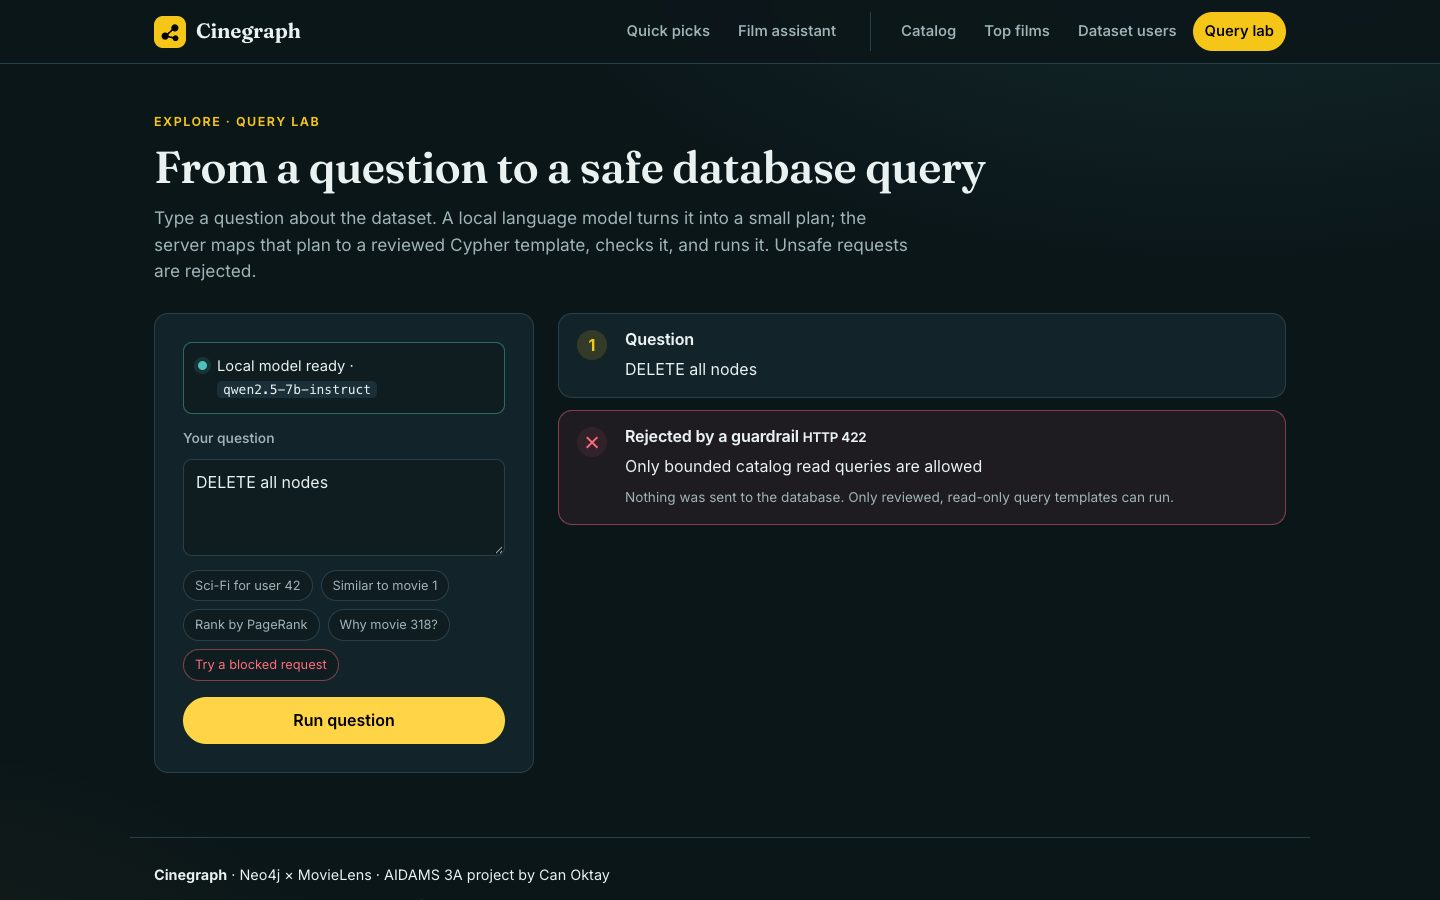
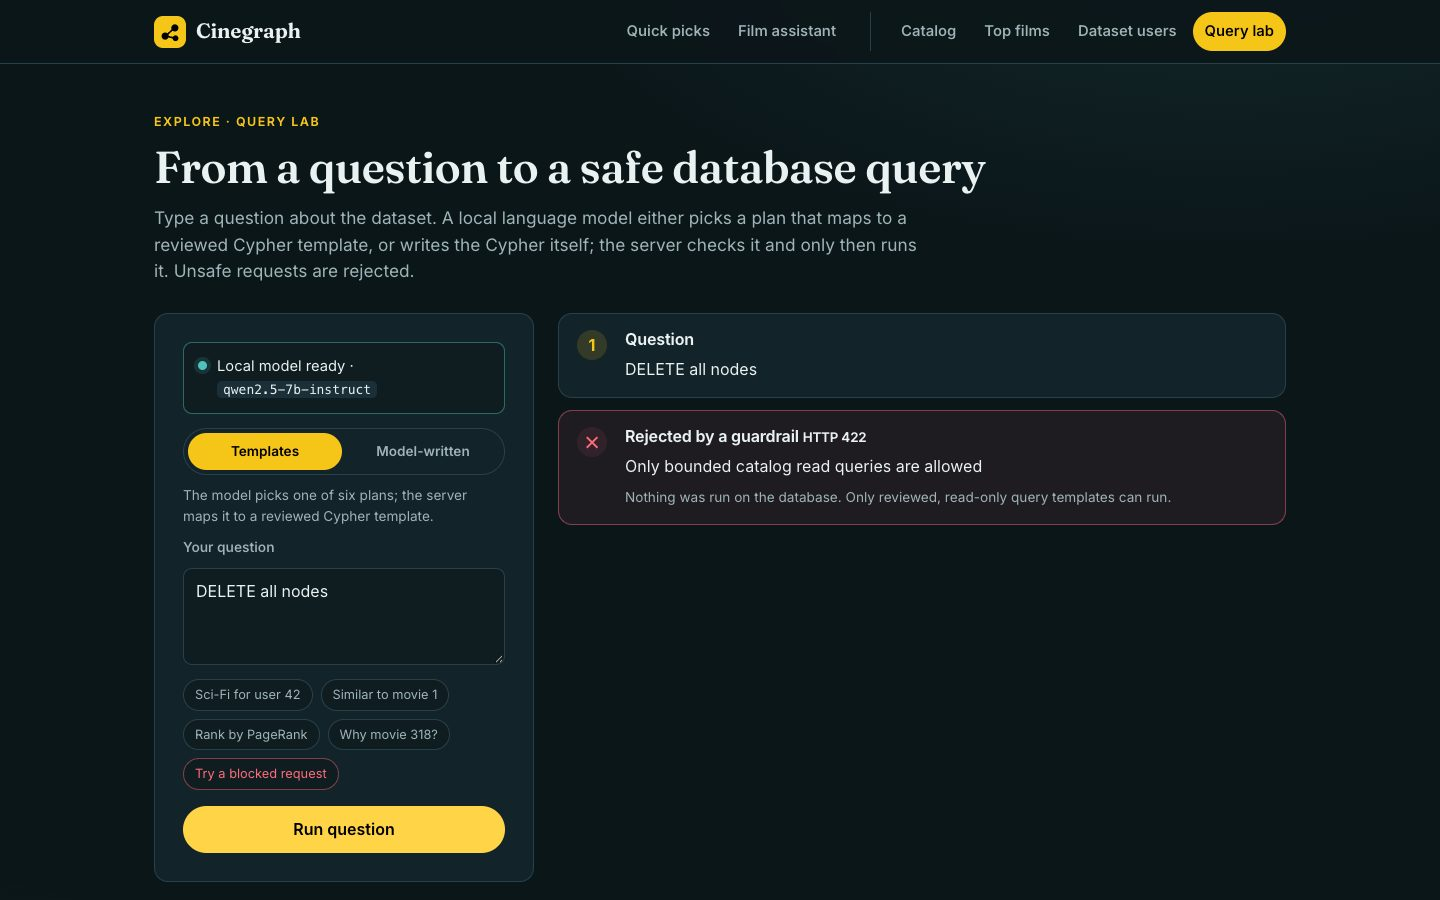
docs: anti-genericity appendix in the README and an updated rubric map
Add the comparison with a generic AI-generated schema and the rejected
modelling alternatives to the README, describe both query-lab modes and
pathfinding, refresh screenshots and numbers, and rewrite the
requirement-to-evidence map.

Changed region(s): [[0.0938, 0.4667, 0.4062, 0.9956], [0.0938, 0.2178, 0.625, 0.3111], [0.5, 0.5289, 0.8125, 0.56]]

diff --git a/docs/requirements.md b/docs/requirements.md
@@ -1,33 +1,52 @@
 # Requirement-to-evidence map
 
-Source: [instructor specification](https://gist.github.com/bdallard/2ada69b40c3abfe3a7b3f6ed402b4b51). This maps evidence, not a self-awarded grade.
+Source: [instructor specification](https://gist.github.com/bdallard/2ada69b40c3abfe3a7b3f6ed402b4b51). Each row points to where the criterion is met; it is evidence, not a self-awarded grade.
 
-| Rubric section | Points | Implemented evidence |
+| Rubric item | Points | Evidence |
 |---|---:|---|
-| Docker services | 9 | Three-service Compose, non-root API Dockerfile, env setup, healthchecks, image workflow. **Public** visibility remains intentionally unmet while image is private. |
-| Neo4j | 10 | Five source labels/types plus operational analytics, seven uniqueness constraints, full-text/year indexes, real idempotent ETL and documented data. |
-| FastAPI | 6 | Four principal use cases, search/explanation/ask/health, Pydantic, OpenAPI and tested error responses. |
-| Advanced Cypher | 9 | Similarity traversal, weighted recommendations, community membership, WITH/UNWIND/subqueries/aggregation, graph algorithms in similar/discover/PageRank endpoints. |
-| Optimization | 5 | Bounded inputs, parameters, pagination, precompute, PROFILE plans and 30-query benchmark including quality overlap. |
-| GDS + agentic | 13 | Real projection + Node Similarity/Louvain/PageRank; frozen supervised interaction classification; local model planning and compiled Cypher; guardrail and evidence evaluation. |
-| Schemas/modeling | 7 | SVG + editable draw.io graph/architecture diagrams; ADRs; unedited baseline comparison. |
-| Documentation | 5 | README, real screenshots, executed notebook, runbook and guide. |
-| Clean code | 4 | Instructor .pylintrc, ≥9.5 lint gate, Black/PEP8 and docstrings. |
-| Makefile | 3 | Documented functional commands and help. |
-| Tests | 10 | Unit/API/real DB/Cypher/GDS, container HTTP smoke, ≥60% enforced coverage and reports. |
-| Engineering | 9 | Lint/test/build workflows, badges, PR observations, Nginx/auth, index plans. **Independent** human review is not claimed. |
-| Git/collaboration | 10 | Stable main, actual feature branches and substantial PR. One real contributor; group balancing/solo rules require instructor clarification. |
+| docker-compose.yml with ≥3 services | 2 | `neo4j`, `api`, `nginx` in [`docker-compose.yml`](../docker-compose.yml), all with health checks |
+| Proper Dockerfile / official image | 2 | Non-root, pinned [`Dockerfile`](../Dockerfile); pinned official Neo4j and Nginx images |
+| `.env.example`, no secrets committed | 2 | [`.env.example`](../.env.example); `make setup` writes an untracked `.env`; history scanned: no secret ever committed |
+| ≥1 image on a public registry | 2 | [`ghcr.io/canoktayy/cinegraph`](https://github.com/canoktayy/cinegraph/pkgs/container/cinegraph), published by the [Container workflow](../.github/workflows/image.yml) |
+| Docker Compose starts cleanly | 1 | `make docker-run` waits until all three services are healthy; CI does the same |
+| ≥3 labels, ≥3 relationship types | 3 | 7 labels, 7 relationship types: [graph model](../README.md#graph-model) |
+| ≥2 constraints | 2 | 7 uniqueness constraints in `scripts/data.py` (`create_schema`) |
+| Appropriate indexes | 2 | Full-text title index and year range index; [PROFILE of an index seek](evidence/profile-index.json) |
+| Dataset ingestion script | 2 | `make download seed`: validated, idempotent batch import (`scripts/data.py`) |
+| Dataset source documented | 1 | [Data sources](../README.md#data-sources-and-attribution), checksums in `artifacts/reports/data_quality.json` |
+| ≥4 endpoints, ≥3 advanced graph queries | 2 | 18 endpoints; similar, recommendations, discovery, trending/PageRank, explanation paths, shortest path |
+| Pydantic validation | 2 | `app/models.py`, `app/taste.py`, `app/agent/*` (strict types, bounds, `extra="forbid"`) |
+| Swagger `/docs` works | 1 | http://localhost:18080/docs; checked by `tests/integration/test_containers.py` |
+| Proper error handling | 1 | 404/422/429/502/503/504 with messages; database errors hide internals (`app/main.py`) |
+| Pathfinding/GDS in ≥2 endpoints | 4 | `shortestPath` in `/api/movies/{a}/path/{b}`; GDS Node Similarity in `/similar` and `/recommendations`; Louvain in `/discover`; PageRank in `/trending` |
+| Complex pattern matching | 3 | Multi-hop rating → similarity paths, `EXISTS` subqueries, event-node tag traversal (`app/queries.py`) |
+| WITH, UNWIND, subqueries, aggregations | 2 | `TASTE_RANKING` (UNWIND), `RECOMMEND` (WITH, aggregation), `DIRECT_SIMILAR` (CALL subqueries) |
+| Optimized queries + benchmarks | 5 | Parameters, LIMIT, pagination, precomputed neighbours; [benchmark](results.md#same-workload-query-benchmark) and PROFILE captures |
+| GDS projection + ≥2 algorithms | 2 | Cypher projections; Node Similarity, Louvain, PageRank (`app/analytics/build.py`) |
+| ML prediction/classification workflow | 3 | Leakage-free classifier on frozen graph features ([ADR 004](adr/004-offline-evaluation.md), `make train`) |
+| NL-to-Cypher / agent | 4 | Query lab: templates **and** model-written Cypher; two-layer film assistant (orchestrator + verbaliser) |
+| LLM reliability and guardrails | 4 | Keyword guard, typed plans, static Cypher checks, EXPLAIN read-only proof, READ transactions; [52/52 query-lab cases](../artifacts/reports/llm_evaluation.json), [23/23 assistant checks](../artifacts/reports/assistant_evaluation.json) |
+| Neo4j graph diagram | 2 | [`schema.svg`](diagrams/schema.svg) with draw.io source |
+| System architecture diagram | 2 | [`architecture.svg`](diagrams/architecture.svg) with services, ports and data flows |
+| Modeling rationale + anti-genericity appendix | 3 | [Appendix in the README](../README.md#appendix-our-schema-vs-a-generic-ai-generated-schema), [ADRs](adr/), [full comparison](modeling-comparison.md) |
+| Complete README + screenshots | 3 | [README](../README.md) with 15 screenshots |
+| Demonstration notebook | 2 | [`demo.ipynb`](../demo.ipynb): executed, with graph exploration and charts |
+| .pylintrc, pylint ≥9.5, make lint | 2 | Course `.pylintrc`; `make lint` enforces 9.5 (current 9.9) |
+| PEP 8 + clean architecture | 1 | Black-formatted; routes, services, repository, queries and agents separated |
+| Docstrings | 1 | Every module, class and public function in `app/` and `scripts/` |
+| Makefile: commands, functional, documented | 3 | `make help`; [Commands](../README.md#commands) |
+| Unit/API/Neo4j tests | 3 | `tests/unit`, `tests/api`, `tests/integration` |
+| Container health checks | 2 | `tests/integration/test_containers.py` (FastAPI via Nginx, Swagger, Neo4j Bolt, Docker health) |
+| Cypher tests | 2 | `tests/integration/test_graph.py` runs the real queries on Neo4j |
+| Coverage ≥60% | 2 | Enforced in `pyproject.toml`; current figure in the README |
+| All tests pass | 1 | CI [Quality workflow](../.github/workflows/ci.yml) |
+| Lint workflow / Test workflow / Badges | 3 | `lint` and `tests` jobs; badges at the top of the README |
+| Code reviews | 1 | Every merged pull request has at least two constructive review comments (self-review, labelled as such) |
+| Reverse proxy | 3 | Nginx with rate limits, body size limit and security headers (`nginx/default.conf`); optional API key |
+| EXPLAIN / PROFILE demonstration | 2 | [PROFILE captures](evidence/), EXPLAIN in both query-lab modes |
+| Branch workflow, .gitignore, merged PRs, commit messages | 7 | Feature branches and pull requests for every change; conventional commit prefixes |
+| Balanced contributions | 3 | Solo project: all work is by one student; see [solo scope](solo-scope.md) |
 
 ## Required repository artifacts
 
-- `docker-compose.yml`, `Dockerfile`, `nginx/`, `.env.example`, `.gitignore`
-- `app/`, `scripts/`, `tests/`, `cypher/`
-- `Makefile`, `.pylintrc`, pinned requirements and CI workflows
-- Root README, `demo.ipynb`, graph and system diagrams
-- Source manifest generated by import; quality/GDS/ML/LLM/benchmark reports
-- Actual example responses, screenshots and index/query profiles
-- GitHub image/CI/PR links and solo-scope notes
-
-## Interpretation boundaries
-
-Level 2 permits NL-to-Cypher; a LangGraph multi-step agent is not claimed. This implementation produces a constrained query plan and compiles actual Cypher; the compiler's behavior is inspectable. General GDS/ML rubric items are included despite the project being Level 2. The owner's private-visibility preference is preserved rather than silently publishing embedded source code.
+`docker-compose.yml`, `app/`, `scripts/`, `tests/`, `Makefile`, `.env.example`, `requirements.txt`, `demo.ipynb` and the root `README.md` are all present.

diff --git a/docs/results.md b/docs/results.md
@@ -4,10 +4,10 @@ Measured locally on 18 October 2026 after the interface redesign. These are obse
 
 ## Quality gates
 
-- **207 Python tests and 21 frontend behavioural tests passed**, including real Neo4j, Cypher, projection and GDS algorithm jobs.
-- **84.81% combined Python statement/branch coverage**, minimum enforced: 60%.
+- **237 Python tests and 22 frontend behavioural tests passed**, including real Neo4j, Cypher, projection and GDS algorithm jobs.
+- **84.63% combined Python statement/branch coverage**, minimum enforced: 60%.
 - **Pylint 9.90/10**, teacher configuration, minimum enforced: 9.5. Black reports no changes.
-- **40/40 query-lab reliability cases passed**. The 20 supported questions check intent, exact entity/filter/budget parameters and returned genre membership. Other cases distinguish scope/guardrail rejection from controlled malformed-provider fault injection.
+- **52/52 query-lab reliability cases passed**, including six questions where the real model wrote the Cypher itself and six injected unsafe drafts that never reached the database. The 20 supported questions check intent, exact entity/filter/budget parameters and returned genre membership. Other cases distinguish scope/guardrail rejection from controlled malformed-provider fault injection.
 - **23/23 film-assistant checks passed** with the real local model and real Neo4j: ten quiz rounds, then ten typed requests through the two model layers (orchestrator and verbaliser), including “Scarface is my favourite film”, decade and exclusion filters, a switch back to all favourites, a title that is not in the catalog and a vague request, plus two scope guards and unchanged source counts.
 - **14/14 live HTTP smoke checks passed** against the rebuilt container stack.
 - First-load transfer through Nginx: about 316 KB (HTML 7 KB, app.js 11.5 KB, poster metadata 298 KB gzip), down from about 3.1 MB. Posters display in Chrome and WebKit (Safari) on every screen.
@@ -48,7 +48,7 @@ Thirty identical source-movie IDs, five warm-up calls, sequential local-client t
 
 ## Boundaries that remain external
 
-The owner requested a private repository and private image; the public-registry rubric criterion is not claimed. Independent human peer review and solo-submission approval require the instructor/another person. No grade, external approval, collaboration balance or human review is fabricated.
+The repository is private; the container image is public. Independent human peer review and solo-submission approval require the instructor/another person. No grade, external approval, collaboration balance or human review is fabricated.
 
 ## New-visitor taste discovery
 

diff --git a/docs/solo-scope.md b/docs/solo-scope.md
@@ -2,8 +2,8 @@
 
 One developer: Can Oktay. The instructor must decide how group contribution balance and independent peer-review criteria apply to a solo submission. No exception or instructor approval is claimed here.
 
-The repository uses feature branches and substantial pull requests. Review observations are labeled as self-review when there is no independent human reviewer; they are not presented as an external approval or as a second contributor. No commit count or history is manufactured to simulate a team.
+The repository uses feature branches and substantial pull requests. Every merged pull request has at least two constructive review comments. They are labelled as self-review because there is no second team member; they are not presented as an external approval or as a second contributor. No commit count or history is manufactured to simulate a team.
 
-The repository is private by explicit choice. Container publishing uses GitHub Container Registry and preserves private visibility. The rubric's **public** registry criterion is therefore not claimed until the owner explicitly elects a public artifact. Making an app image public would expose embedded application source, even when the repository remains private.
+The repository is private. The container image `ghcr.io/canoktayy/cinegraph` is public, as the rubric asks; it contains the application code but no secrets (`.env` is never copied into the image).
 
 AI assistance is permitted by the supplied specification; the model-comparison appendix records a generated baseline and deliberate modeling differences. Engineering understanding and live defense remain part of the assessment.

diff --git a/docs/release-checklist.md b/docs/release-checklist.md
@@ -14,6 +14,6 @@ The local suite, data invariants, real GDS jobs, model evaluation and notebook a
 - [x] Executed notebook with real local-model success and rejection.
 - [x] Graph/architecture diagrams, editable sources and modeling comparison.
 - [x] [GitHub CI passed for the final application commit](https://github.com/canoktayy/cinegraph/actions/runs/39052798282).
-- [x] [Container publication succeeded](https://github.com/canoktayy/cinegraph/actions/runs/39053436880); the [package page](https://github.com/canoktayy/cinegraph/pkgs/container/cinegraph) visibly confirms **Private**. Digest and source revision are in [release evidence](evidence/github-release.json).
+- [x] [Container publication succeeded](https://github.com/canoktayy/cinegraph/actions/runs/39053436880); the [package page](https://github.com/canoktayy/cinegraph/pkgs/container/cinegraph) shows the image as **public**. Digest and source revision are in [release evidence](evidence/github-release.json).
 
-Independent human review, instructor solo approval and **public** image visibility are not claimed. Review observations posted by the owner account are self-review, not an external sign-off.
+Independent human review and instructor solo approval are not claimed. Review observations posted by the owner account are self-review, not an external sign-off.

diff --git a/docs/demo-runbook.md b/docs/demo-runbook.md
@@ -19,7 +19,7 @@
 - Click “Try a blocked request” (`DELETE all nodes`): show the red 422 guardrail stage and verify the source counts remain unchanged.
 - Explain Movie→User projection direction, support shrinkage and canonical undirected weights.
 - Show the chronological split and cold-start cohort; explain why unrated pairs are not negative labels.
-- Show actual benchmark speed and ranking overlap, CI and private container publishing.
+- Show actual benchmark speed and ranking overlap, CI and the public container image.
 
 ## Questions to be able to answer
 

diff --git a/docs/START_HERE.md b/docs/START_HERE.md
@@ -64,4 +64,4 @@ If you make the site reachable from other computers, set `REQUIRE_API_KEY=true` 
 
 More detail: [demo runbook](demo-runbook.md), [assistant design](film-assistant.md), [measured results](results.md) and `demo.ipynb`.
 
-`make stop` stops the services but keeps the data. The repository and the container image are private. No paid LLM or cloud Neo4j account is needed.
+`make stop` stops the services but keeps the data. The repository is private; the container image `ghcr.io/canoktayy/cinegraph` is public. No paid LLM or cloud Neo4j account is needed.
